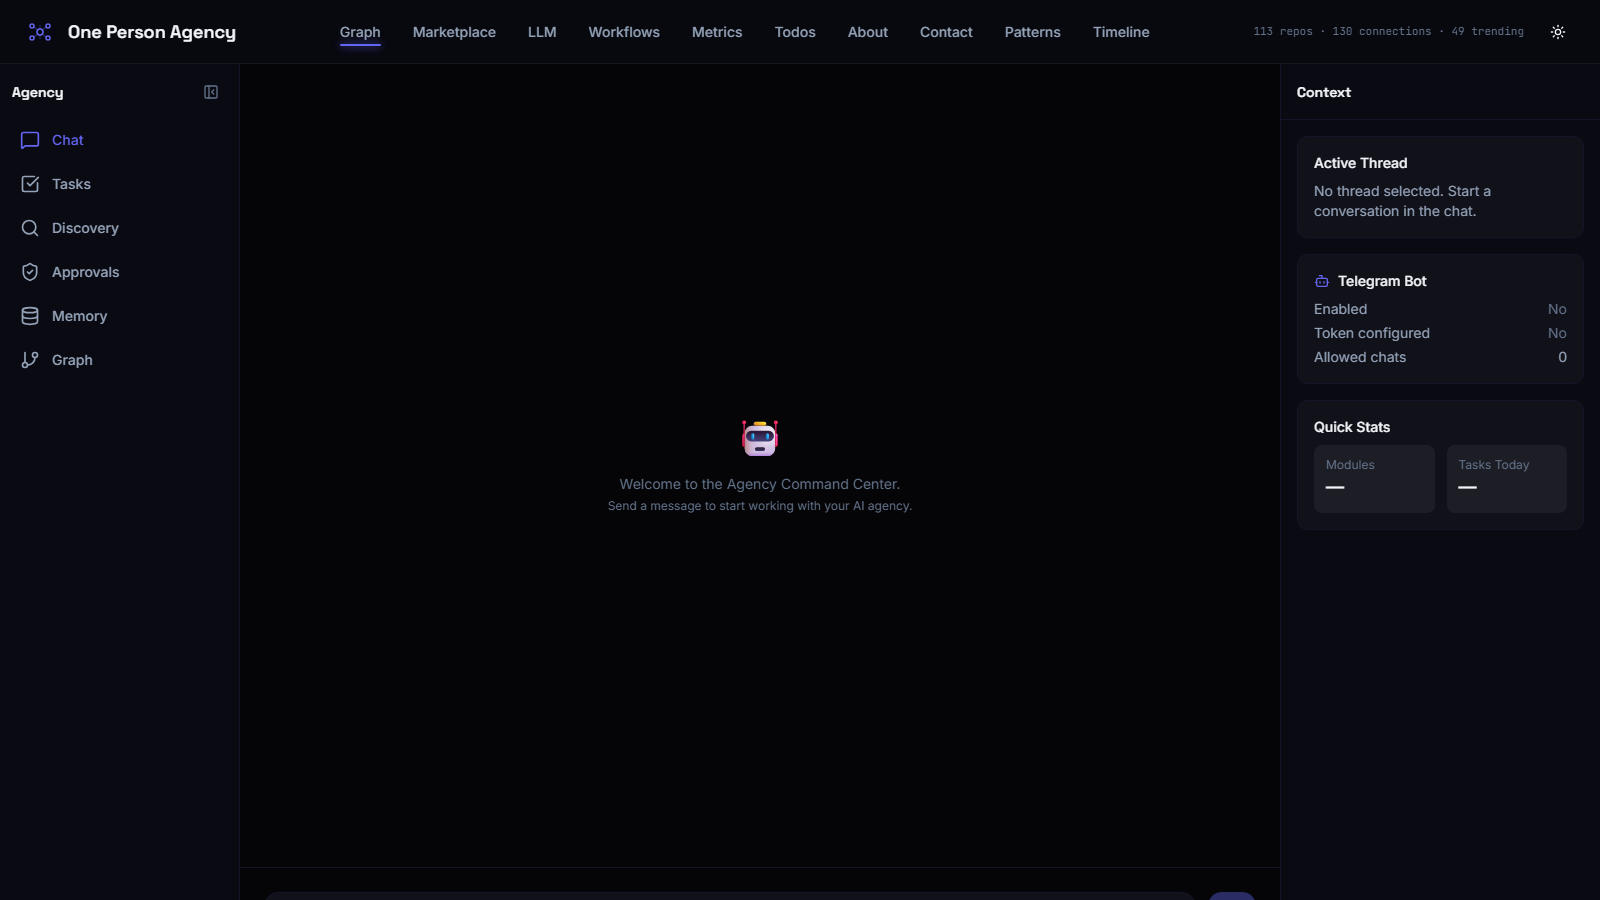
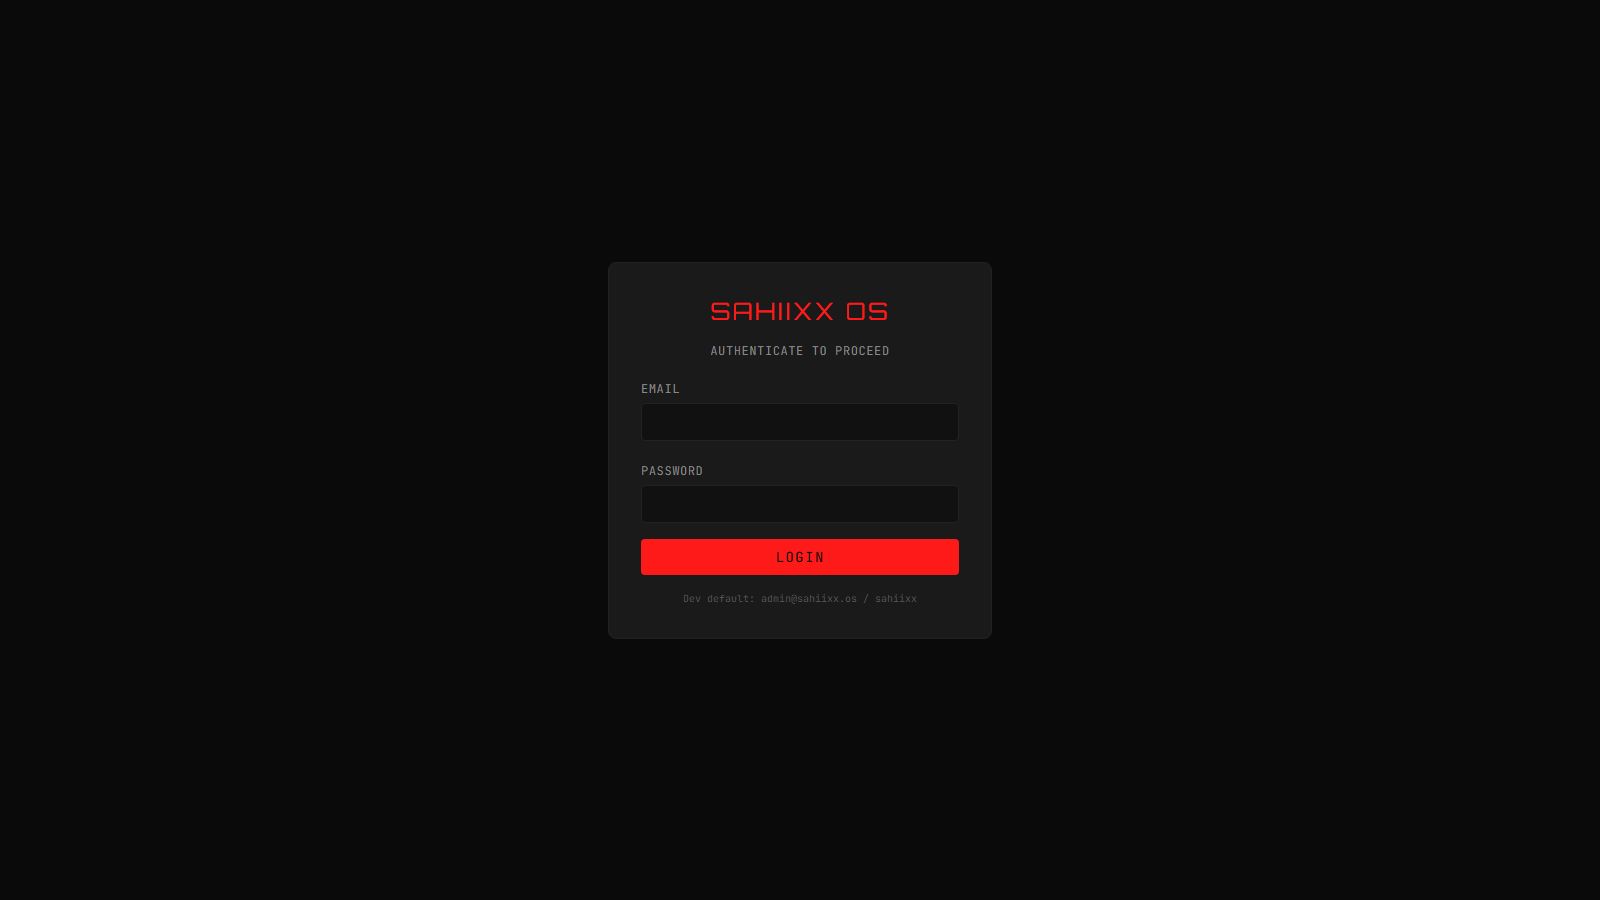
chore: gitignore JARVIS sub-projects, add screenshot scripts
- Add jarvis-electron/, jarvis-native/, jarvis-overlay/ to .gitignore
  (separate apps with own node_modules/build artifacts, ~1 GB total)
- Add jarvis_*.png screenshot pattern to .gitignore
- Add screenshot_jarvis.py and screenshot_jarvis_v2.py utility scripts
- Update dashboard_screenshot.png

diff --git a/scripts/screenshot_jarvis.py b/scripts/screenshot_jarvis.py
@@ -1,0 +1,58 @@
+from playwright.sync_api import sync_playwright
+
+with sync_playwright() as p:
+    browser = p.chromium.launch()
+    page = browser.new_page(viewport={"width": 1920, "height": 1080})
+    
+    # Go to dashboard on API port (serves built dist/)
+    page.goto("http://127.0.0.1:8082/dashboard/")
+    
+    # Wait for app to load
+    page.wait_for_timeout(3000)
+    
+    # If login screen appears, auto-login with dev credentials
+    if page.locator("text=SAHIIXX OS").count() > 0 and page.locator("input[type='password']").count() > 0:
+        page.fill("input[type='email']", "admin@sahiixx.os")
+        page.fill("input[type='password']", "sahiixx")
+        page.click("button:has-text('LOGIN')")
+        page.wait_for_timeout(3000)
+    
+    # Navigate to Device tab
+    page.click("text=Device")
+    page.wait_for_timeout(5000)
+    
+    # Screenshot the device control panel
+    page.screenshot(path="jarvis_device_overview.png", full_page=False)
+    print("screenshot saved: jarvis_device_overview.png")
+    
+    # Click Processes tab
+    page.click("text=Processes")
+    page.wait_for_timeout(3000)
+    page.screenshot(path="jarvis_device_processes.png", full_page=False)
+    print("screenshot saved: jarvis_device_processes.png")
+    
+    # Click Services tab
+    page.click("text=Services")
+    page.wait_for_timeout(3000)
+    page.screenshot(path="jarvis_device_services.png", full_page=False)
+    print("screenshot saved: jarvis_device_services.png")
+    
+    # Click Terminal tab
+    page.click("text=Terminal")
+    page.wait_for_timeout(3000)
+    page.screenshot(path="jarvis_device_terminal.png", full_page=False)
+    print("screenshot saved: jarvis_device_terminal.png")
+    
+    # Click Voice tab
+    page.click("text=Voice")
+    page.wait_for_timeout(3000)
+    page.screenshot(path="jarvis_device_voice.png", full_page=False)
+    print("screenshot saved: jarvis_device_voice.png")
+    
+    # Click HUD tab
+    page.click("text=HUD")
+    page.wait_for_timeout(3000)
+    page.screenshot(path="jarvis_device_hud.png", full_page=False)
+    print("screenshot saved: jarvis_device_hud.png")
+    
+    browser.close()

diff --git a/scripts/screenshot_jarvis_v2.py b/scripts/screenshot_jarvis_v2.py
@@ -1,0 +1,32 @@
+from playwright.sync_api import sync_playwright
+
+with sync_playwright() as p:
+    browser = p.chromium.launch()
+    page = browser.new_page(viewport={"width": 1920, "height": 1080})
+    
+    # Go to dashboard on API port
+    page.goto("http://127.0.0.1:8082/dashboard/")
+    page.wait_for_timeout(3000)
+    
+    # Auto-login if needed
+    if page.locator("text=SAHIIXX OS").count() > 0 and page.locator("input[type='password']").count() > 0:
+        page.fill("input[type='email']", "admin@sahiixx.os")
+        page.fill("input[type='password']", "sahiixx")
+        page.click("button:has-text('LOGIN')")
+        page.wait_for_timeout(3000)
+    
+    # Navigate to Device tab
+    page.click("text=Device")
+    page.wait_for_timeout(8000)  # Wait for SSE data to populate
+    
+    # Screenshot Overview with data
+    page.screenshot(path="jarvis_overview_data.png", full_page=False)
+    print("screenshot saved: jarvis_overview_data.png")
+    
+    # Click Voice tab with longer wait
+    page.click("text=Voice")
+    page.wait_for_timeout(5000)
+    page.screenshot(path="jarvis_voice_tab.png", full_page=False)
+    print("screenshot saved: jarvis_voice_tab.png")
+    
+    browser.close()
